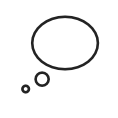
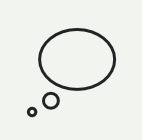
fix background images

Changed region(s): [[0.178, 0.1271, 0.839, 0.8644]]

diff --git a/pages/index/Grid.js b/pages/index/Grid.js
@@ -17,7 +17,7 @@ const Grid = ({ image, head, sub, flexDirection, sections }) => {
       </div>
       <div
         className="gridImageContainer"
-        style={{ background: `url(${image}) center top no-repeat` }}
+        style={{ background: `url(${image}) center top no-repeat, #f2f4ef` }}
       />
     </div>
   )

diff --git a/pages/index/index.css b/pages/index/index.css
@@ -130,11 +130,13 @@
 
 .gridContent {
   width: 50%;
+  background: #f2f4ef;
 }
 
 .gridImageContainer {
   width: 50%;
   background-size: cover;
+  min-height: 100%;
 }
 
 
